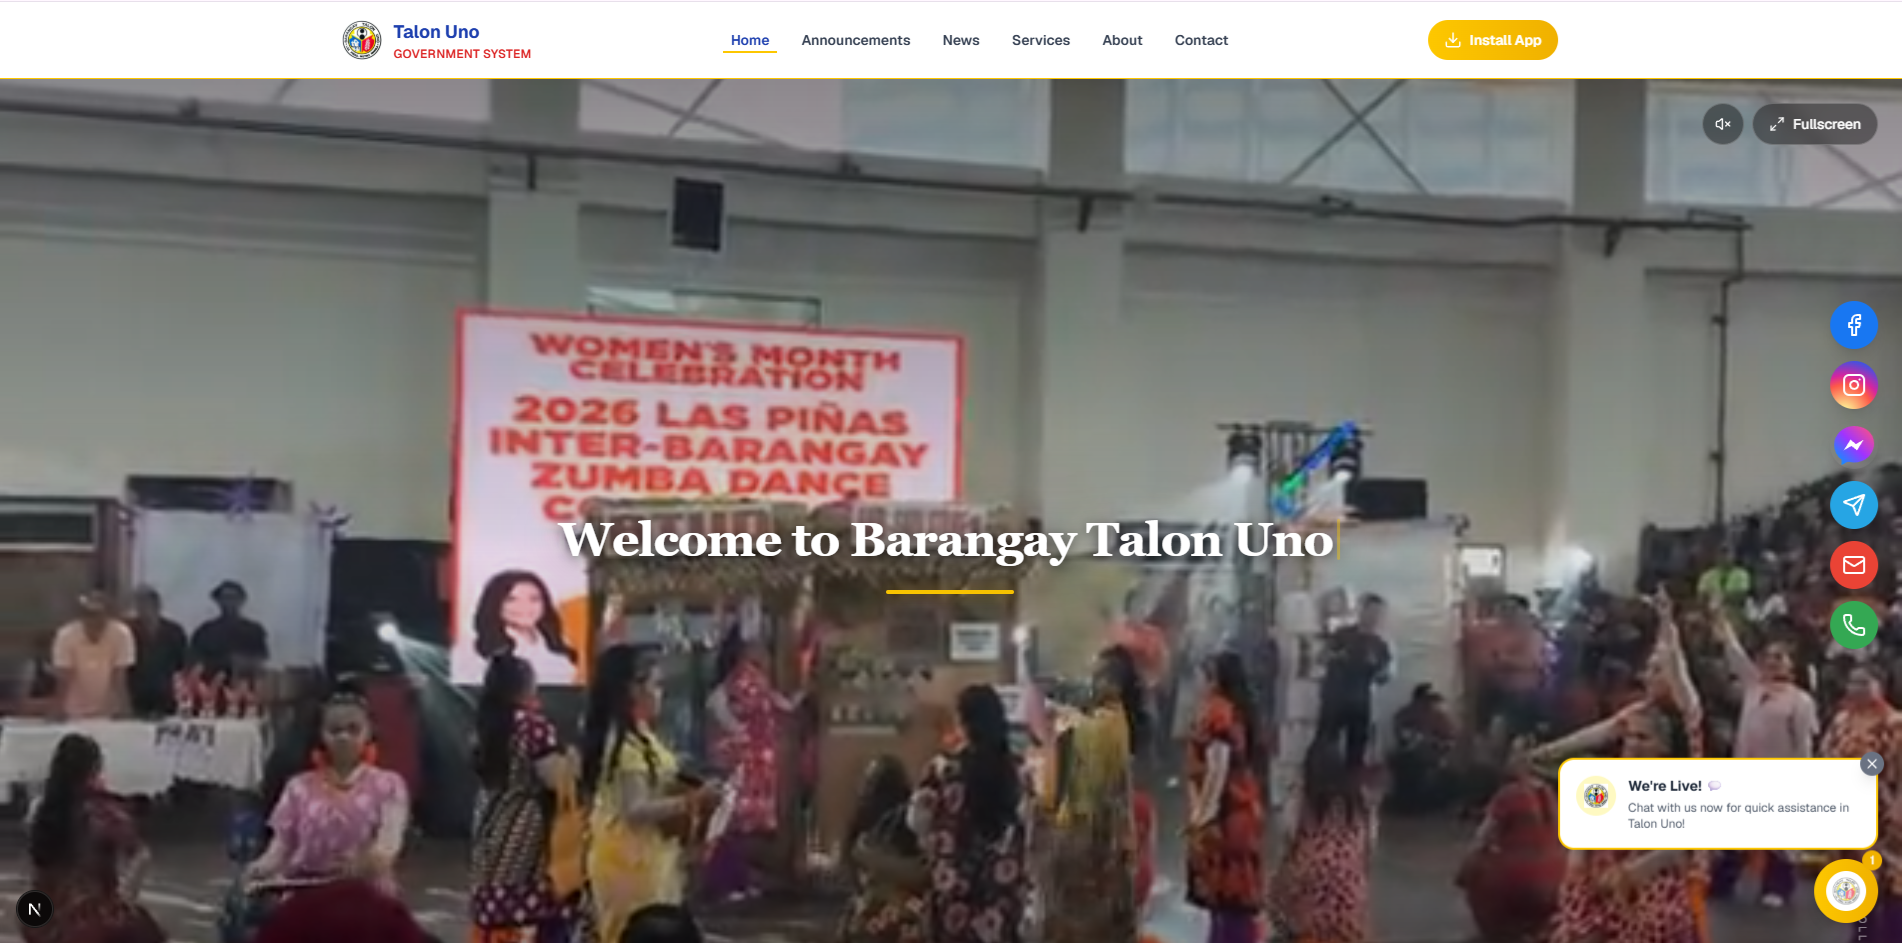
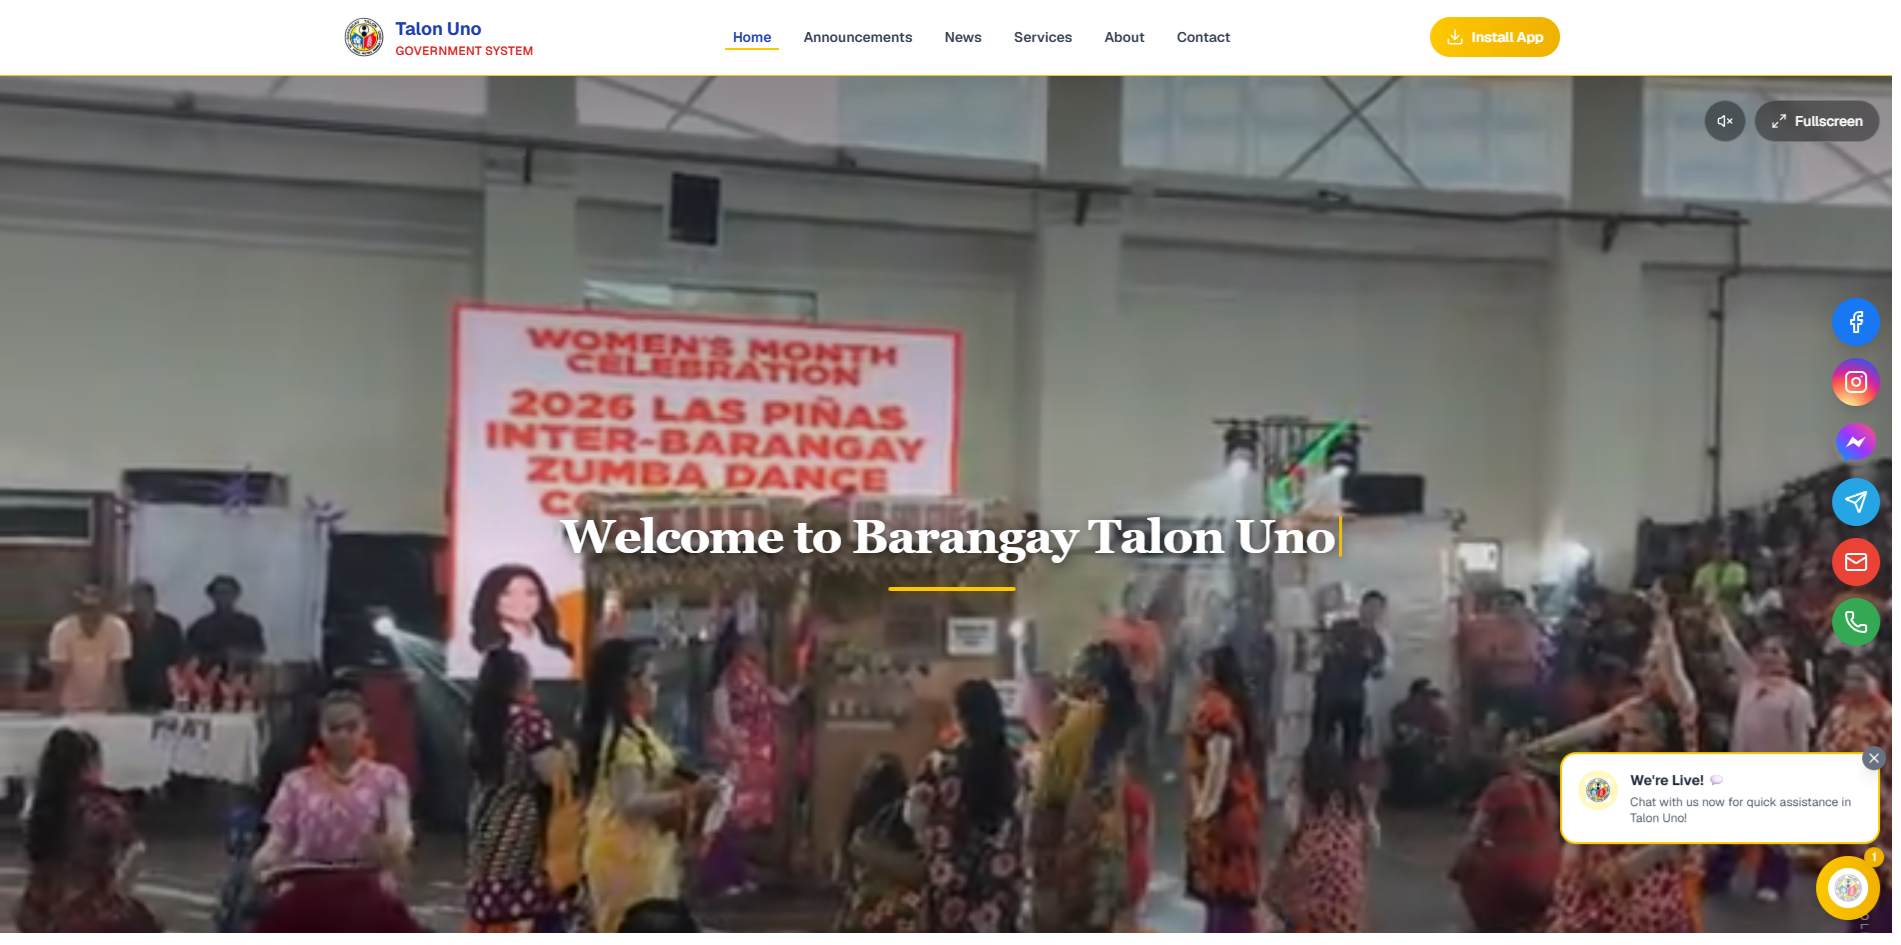
updated floating socials

Changed region(s): [[0.0, 0.0, 1.0, 1.0], [0.0931, 0.1845, 0.2483, 0.2153]]

diff --git a/components/FloatingSocialMedia.tsx b/components/FloatingSocialMedia.tsx
@@ -70,7 +70,7 @@ const ALL_LINKS: SocialLink[] = [
   {
     name: "Facebook",
     icon: Facebook,
-    url: "https://facebook.com/bgytalondos",
+    url: "https://www.facebook.com/p/Barangay-Talon-Uno-61589355265514/",
     color: "bg-[#1877F2] hover:brightness-110", // Facebook blue
     external: true,
   },
@@ -86,7 +86,7 @@ const ALL_LINKS: SocialLink[] = [
   {
     name: "Messenger",
     icon: MessengerIcon,
-    url: "https://m.me/bgytalondos",
+    url: "",
     color: "bg-transparent", // icon draws its own gradient
     external: true,
   },
@@ -100,14 +100,14 @@ const ALL_LINKS: SocialLink[] = [
   {
     name: "Email",
     icon: Mail,
-    url: "mailto:barangaytalondos@gmail.com",
+    url: "mailto:",
     color: "bg-[#EA4335] hover:brightness-110", // Gmail red
     external: false,
   },
   {
     name: "Phone",
     icon: Phone,
-    url: "tel:288711048",
+    url: "tel:09622173021",
     color: "bg-[#34A853] hover:brightness-110", // classic call green
     external: false,
   },
